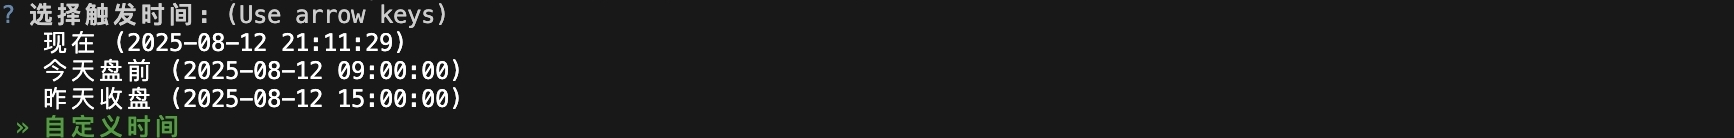
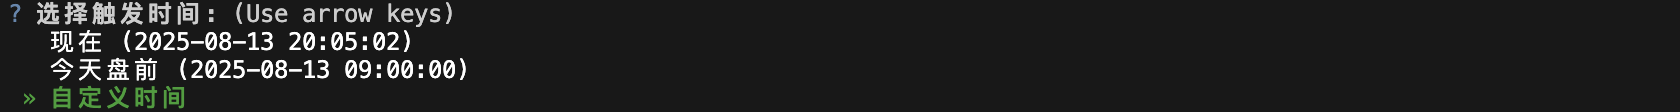
update cli event stream

Changed region(s): [[0.0, 0.0, 0.2786, 1.0]]

diff --git a/cli/main.py b/cli/main.py
@@ -309,7 +309,7 @@ class ContestTradeDisplay:
             footer_title = "🏆 结果摘要"
         else:
             footer_text = Text()
-            footer_text.append("🔄 分析进行中...", style="bold yellow")
+            footer_text.append("🔄 分析进行中...预计等待10分钟...", style="bold yellow")
             if self.analysis_completed:
                 footer_text.append("\n✅ 分析完成！请按回车键(↵)退出运行界面...", style="bold green")
             footer_title = "📊 状态信息"
@@ -495,8 +495,8 @@ async def run_with_events_capture(company, trigger_time: str, display: ContestTr
                 log_msg = f"[{datetime.now().strftime('%H:%M:%S')}] {event_type}: {event_name}\n"
                 with open(display.log_file, "a", encoding="utf-8") as f:
                     f.write(log_msg)
-                # 同时显示到界面事件流
-                display.add_message("事件", f"{event_type}: {event_name}")
+                # # 同时显示到界面事件流
+                # display.add_message("事件", f"{event_type}: {event_name}")
             
             # 记录自定义事件到日志和界面
             if event_type == "on_custom":

diff --git a/cli/utils.py b/cli/utils.py
@@ -22,7 +22,6 @@ def get_trigger_time() -> str:
     options = [
         f"现在 ({now.strftime('%Y-%m-%d %H:%M:%S')})",
         f"今天盘前 ({now.strftime('%Y-%m-%d')} 09:00:00)",
-        f"昨天收盘 ({now.strftime('%Y-%m-%d')} 15:00:00)",
         "自定义时间",
     ]
     
@@ -40,9 +39,7 @@ def get_trigger_time() -> str:
         return now.strftime('%Y-%m-%d %H:%M:%S')
     elif choice == options[1]:  # 今天盘前
         return f"{now.strftime('%Y-%m-%d')} 09:00:00"
-    elif choice == options[2]:  # 昨天收盘
-        return f"{now.strftime('%Y-%m-%d')} 15:00:00"
-    else:  # 自定义时间
+    elif choice == options[2]:  # 自定义时间
         trigger_time = questionary.text(
             "请输入自定义触发时间 (YYYY-MM-DD HH:MM:SS):",
             default=now.strftime('%Y-%m-%d %H:%M:%S'),
